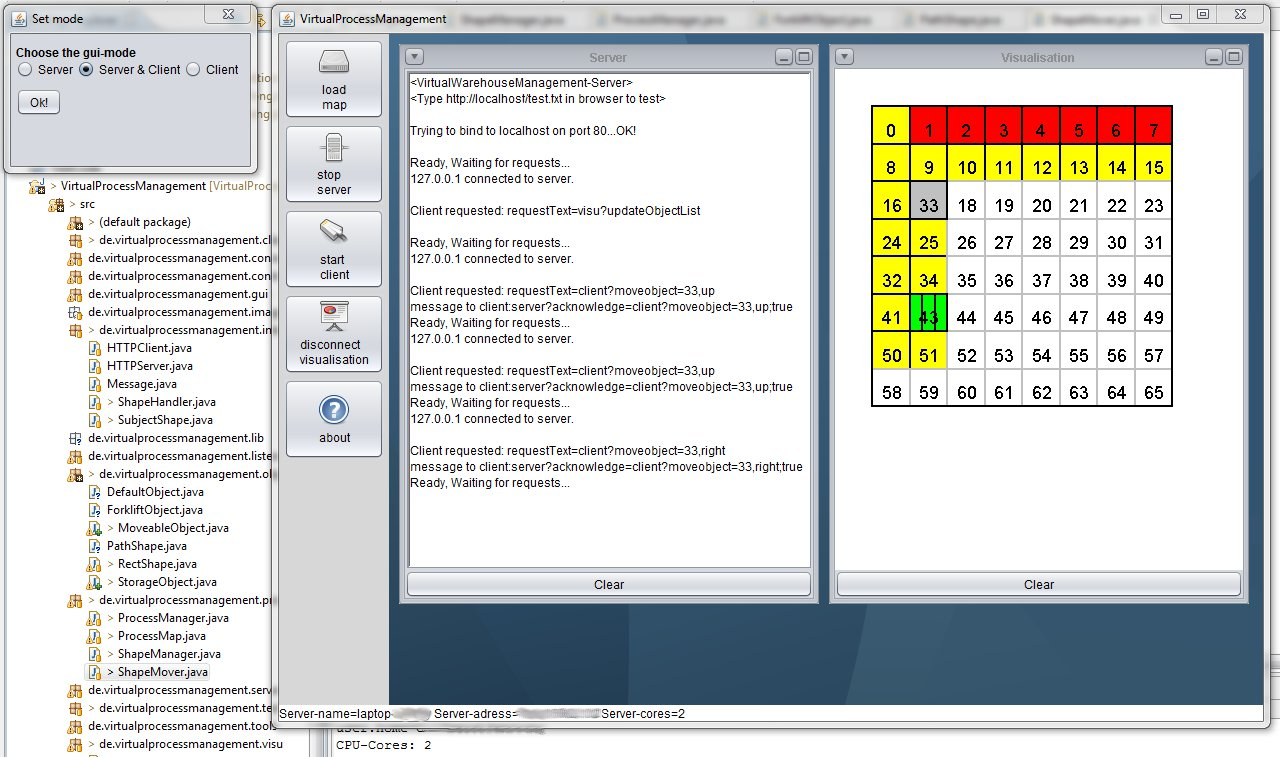
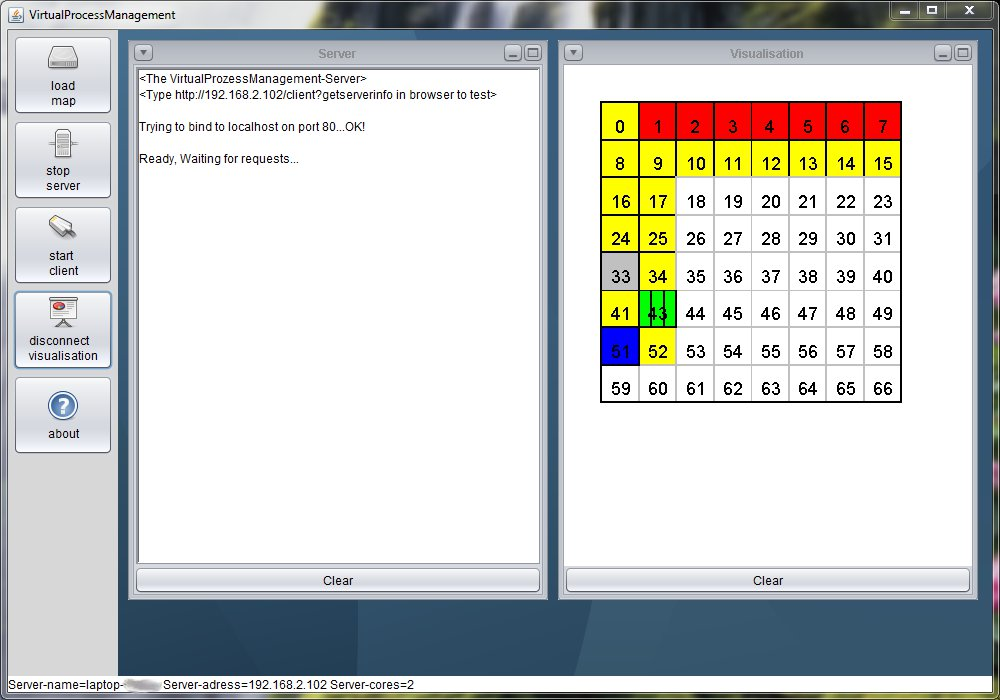
- started to make visu independent

diff --git a/index.html b/index.html
@@ -34,85 +34,93 @@
 </head>
 
 <body>
-  <a href="http://github.com/residuen/OpenEdu-VirtualProcessManagement"><img style="position: absolute; top: 0; right: 0; border: 0;" src="http://s3.amazonaws.com/github/ribbons/forkme_right_darkblue_121621.png" alt="Fork me on GitHub" /></a>
+  <a href="http://github.com/residuen/VirtualProcessManagement"><img style="position: absolute; top: 0; right: 0; border: 0;" src="http://s3.amazonaws.com/github/ribbons/forkme_right_darkblue_121621.png" alt="Fork me on GitHub" /></a>
 
   <div id="container">
 
     <div class="download">
-      <a href="http://github.com/residuen/OpenEdu-VirtualProcessManagement/zipball/master">
+      <a href="http://github.com/residuen/VirtualProcessManagement/zipball/master">
         <img border="0" width="90" src="http://github.com/images/modules/download/zip.png"></a>
-      <a href="http://github.com/residuen/OpenEdu-VirtualProcessManagement/tarball/master">
+      <a href="http://github.com/residuen/VirtualProcessManagement/tarball/master">
         <img border="0" width="90" src="http://github.com/images/modules/download/tar.png"></a>
     </div>
 
-    <h1><a href="http://github.com/residuen/OpenEdu-VirtualProcessManagement">OpenEdu-VirtualProcessManagement</a>
-      <span class="small"><i>(version v 0.5 beta)</i><br />
+    <h1><a href="http://github.com/residuen/VirtualProcessManagement">OpenEdu-VirtualProcessManagement</a>
+      <span class="small"><i>(version v 0.1 beta)</i>
       by <a href="http://github.com/residuen">residuen</a></span></h1>
+	
+   <p>
+    	<br/>
+    	<h2>Das Programm</h2>
+		OpenEdu-VirtualProcessManagement ist ein OpenSource-Tool, welches die Simulation einer automatisierten Anlage ermoeglicht.
+		Dies kann z.B. ein Lager- oder ein Warenhaus mit Wareneingang und Ausgang sein, oder aber auch eine Fertigungsstraße mit Robotern.
+		<br/>
+		Derzeit besteht die Moeglichkeit, Hallen mittels eine CSV-Datei zu generieren, welche Wege fuer Maschinen und Menschen, Stapler,
+		einfache Fahrzeuge, Ladung bzw. Ware und Lagerflaechen beinhalten.
+		<br/>
+ 
+   	 	<h2>Der HTTP-Server</h2>
+    	Eine einfache HTTP-Anfrage an den Server veranlasst z.B. Bewegungen oder Lade-Entladevorgänge:<br/>
+		<i>http://192.168.1.2/client?chargeobjectbyid=43,51,left</i>  z.B. veranlasst den Stapler mit der ID <b>43</b>
+		Objekt <b>51</b> aufzuladen.<br/>
+		Der in Java geschriebene Server laeuft entweder auf dem lokalen Rechner, oder man startet den Server auf einem Server-PC
+		auf den dann verschiedene Clients Zugriff haben.
+		<br/>
+ 
+   	 	<h2>Intention</h2>
+		Ziel ist das Planen und Entwickeln von simulierten Steuerungs- bzw. Warenmanagementanlagen. Aufgaben koennen sowohl selbststaendig,
+		als auch in Teams in kooperativen Projektaufgaben durchgefuehrt werden.<br/>
+		Ein wesentlicher Vorteil bei der Implementierung per HTTP-Server ist, das die Loesung von Aufgaben <b>Programmiersprachenunabhaengig</b> ist.
+		Auch die Anbindung einer Datenbank für eine Lagerverwaltung ist als Aufgabe moeglich, sowie die Eigenentwicklung einer textbasierten
+		oder auch grafischen Benutzeroberflaeche fuer Steuerungs- und/oder Lagerlogistikaufgaben.
+	</p>
 
-    <div class="description">
-      <!-- Solving and painting simple mathematical equations -->
-    </div>
+	<h2>Gallerie</h2>
+	<p>
+	<a href="http://it-host.de/images/vpm/gui.jpg" target="_blank"><img src="http://it-host.de/images/vpm/gui_thumb.jpg" border="0" /></a>
+	<br/>
+	</p>
+	
+	<h2>Filmsequenz</h2>
+	<p>
+	<a href="http://it-host.de/muviz/movie.webm" target="_blank">Filmsequenz, WebM-Kodiert.</a>
+	<br/>
+	</p>
 
-    <p>
-     <!--
-     With this tool it will be able to write down simple equations like x^2 +2*x -2 or for example 1+sin(x)/x and so on. The solver builds the results between a given range and a given step-size. A double-array will be returned.<br />
-This Java-program uses the JavaScripting-Engine to connect the JScript-Method <i>solve()</i> to solve the results of the functions. JFreeChart ist the Java-API to plot the xy-charts.</br>
-An interface, to be able implement an own solver, will be implemented soon. So VirtualProcessManagement will be a nice application to use in the IT-education.
-	-->
-</p>
-
-<h2>Gallery</h2>
-<p>
-<!--
-<a href="http://it-host.de/images/jfunktion/bild.jpg" target="_blank"><img src="http://it-host.de/images/jfunktion/bild_thumb.jpg" border="0" /></a>
-<br/>
--->
-</p>
-
-<h2>Download</h2>
-<p>Get an executeable jar (last update 11.06.2011): <a href="http://it-host.de/jar/VirtualProcessManagement.jar"><b>VirtualProcessManagement.jar</b></a><br />
-<i>(Tested with Skolelinux 5.0.6, Ubuntu-Linux 10.04 & Windows 7)</i>
-</p>
-
-<h2>title</h2>
-<p>
-bla bli blub<br />
-</p>
-
-<h2>an other title</h2>
-<p>
-bla bli blub v2.0
-
-<h2>Dependencies</h2>
-<p>
-Java Runtime - get it from <a href="http://www.java.com/de/download/" target="_blank"><b>Java&trade;</b></a><br />
-JFreeChart - it's also implemented as jar (very good and fast charting API for Java)
-</p>
-
-<h2>License</h2>
-<p>GPL 3.0</p>
-<h2>Authors</h2>
-<p>residuen (k.bettray@uni-duisburg.de)
-<br/>
-<br/>      </p>
-<h2>Contact</h2>
-<p>residuen (k.bettray@uni-duisburg.de)
-<br/>      </p>
+	<h2>Download</h2>
+	<p>Eine ausfuehrbare Version liegt in der folgenden ZIP-Datei bereit (letztes Update 31.08.2011): <a href="http://it-host.de/jar/VirtualProcessManagement.zip"><b>VirtualProcessManagement.zip</b></a><br />
+	<i>(Getested mit Windows XP und Windows 7)</i>
+	</p>
+	
+	<h2>Abhaengigkeiten</h2>
+	<p>
+	Java Runtime - Erhaeltlich unter <a href="http://www.java.com/de/download/" target="_blank"><b>Java&trade;</b></a><br />
+	</p>
+	
+	<h2>Lizenz</h2>
+	<p>GPL 3.0, mehr dazu unter <a href="http://www.gnu.de/documents/gpl.de.html" target="_blank">http://www.gnu.de/documents/gpl.de.html</a></p>
+	<h2>Author</h2>
+	<p>residuen (k.bettray@uni-duisburg.de)
+	<br/>
+	<br/>      </p>
+	<h2>Kontakt</h2>
+	<p>residuen (k.bettray@uni-duisburg.de)
+	<br/>      </p>
 
 
     <h2>Download</h2>
     <p>
       You can download this project in either
-      <a href="http://github.com/residuen/OpenEdu-VirtualProcessManagement/zipball/master">zip</a> or
-      <a href="http://github.com/residuen/OpenEdu-VirtualProcessManagement/tarball/master">tar</a> formats.
+      <a href="http://github.com/residuen/VirtualProcessManagement/zipball/master">zip</a> or
+      <a href="http://github.com/residuen/VirtualProcessManagement/tarball/master">tar</a> formats.
     </p>
     <p>You can also clone the project with <a href="http://git-scm.com">Git</a>
       by running:
-      <pre>$ git clone git://github.com/residuen/OpenEdu-VirtualProcessManagement</pre>
+      <pre>$ git clone git://github.com/residuen/VirtualProcessManagement</pre>
     </p>
 
     <div class="footer">
-      get the source code on GitHub : <a href="http://github.com/residuen/OpenEdu-VirtualProcessManagement">residuen/OpenEdu-VirtualProcessManagement</a>
+      get the source code on GitHub : <a href="http://github.com/residuen/VirtualProcessManagement">residuen/VirtualProcessManagement</a>
     </div>
 
   </div>

diff --git a/src/de/virtualprocessmanagement/visu/VisualisationGui.java b/src/de/virtualprocessmanagement/visu/VisualisationGui.java
@@ -1,15 +1,10 @@
 package de.virtualprocessmanagement.visu;
 
 import java.awt.BorderLayout;
-import java.awt.Component;
 import java.awt.GridLayout;
 import java.awt.event.ActionEvent;
 import java.awt.event.ActionListener;
-import java.awt.event.WindowEvent;
-import java.awt.event.WindowListener;
-import java.io.IOException;
-import java.util.ArrayList;
-import java.util.HashMap;
+import java.util.Scanner;
 
 import javax.swing.BorderFactory;
 import javax.swing.JButton;
@@ -21,20 +16,10 @@ import javax.swing.JTextArea;
 import javax.swing.event.InternalFrameEvent;
 import javax.swing.event.InternalFrameListener;
 
-import de.virtualprocessmanagement.connection.ServerClientConnectionLayer;
-import de.virtualprocessmanagement.interfaces.HTTPServer;
 import de.virtualprocessmanagement.interfaces.Message;
-import de.virtualprocessmanagement.objects.RectShape;
 import de.virtualprocessmanagement.processing.ProcessMap;
-import de.virtualprocessmanagement.server.Server;
-import de.virtualprocessmanagement.test.TestSubjects;
 
 /**
- * The Server ist based on the Webserver coded by "Jon Berg"
- * You find ist at http://fragments.turtlemeat.com/javawebserver.php
- * I added some interfaces and extensions
- * Thanks to Jon for the basic-works
- * 
  * Copyright: 2011
  * @author: Karsten Bettray
  * @version 0.1
@@ -53,6 +38,7 @@ public class VisualisationGui extends JInternalFrame implements Message, ActionL
 //	private ServerClientConnectionLayer serverClientConnector = null;
 
 	   //declare some panel, scrollpanel, textarea for gui
+	private JPanel contentPanel = new JPanel(new BorderLayout());
 	private JPanel jPanel1 = new JPanel();
 	private JScrollPane jScrollPane1 = new JScrollPane();
 	private JTextArea jTextArea2 = new JTextArea();
@@ -104,8 +90,6 @@ public class VisualisationGui extends JInternalFrame implements Message, ActionL
 		
 		JButton button = new JButton("Clear");
 		button.addActionListener(this);
-		//oh the pretty colors
-//		setUndecorated(true);
 	  
 		visuPanel.setProcessMap(processMap);
 		
@@ -125,8 +109,10 @@ public class VisualisationGui extends JInternalFrame implements Message, ActionL
 		
 //		centerPanel.add(jPanel1);
 		centerPanel.add(visuPanel);
-		this.getContentPane().add(centerPanel, BorderLayout.CENTER);
-		this.getContentPane().add(button, BorderLayout.SOUTH);
+		contentPanel.add(centerPanel, BorderLayout.CENTER);
+		contentPanel.add(button, BorderLayout.SOUTH);
+		
+		this.getContentPane().add(contentPanel);
 		
 		//tweak the apearance
 		this.setSize(420, 560);
@@ -138,6 +124,8 @@ public class VisualisationGui extends JInternalFrame implements Message, ActionL
 		
 		//make sure it is drawn
 		this.validate();
+		
+		System.out.println("Gerendert?");
 	}
 
 	//this is a method to get messages from the actual
@@ -184,4 +172,37 @@ public class VisualisationGui extends JInternalFrame implements Message, ActionL
 
 	@Override
 	public void internalFrameOpened(InternalFrameEvent e) { }
+	
+	
+	public static void main(String[] arg0)
+	{
+		Scanner input = new Scanner(System.in);
+		String hostAdress, map;
+		VisualisationGui myVisu;
+		JFrame frame = new JFrame();
+		
+		System.out.println("Geben Sie die Adresse des Host-Servers ein:");
+		
+		hostAdress = input.nextLine();
+		
+		if(hostAdress == null || hostAdress.length() == 0)
+			hostAdress = "localhost";
+
+		System.out.println("Geben Sie Pfad und Name der Map-Datei ein:");
+		
+		map = input.nextLine();
+		
+		if(map == null || map.length() == 0)
+			map = "map.csv";
+
+		myVisu = new VisualisationGui(new ProcessMap(map, 25, 25), hostAdress);
+		
+		frame.getContentPane().add(myVisu.contentPanel);
+		frame.setDefaultCloseOperation(JFrame.EXIT_ON_CLOSE);
+		frame.setTitle("Visualisation");
+		frame.setSize(420, 560);
+		frame.setLocation(0, 10);
+		frame.setResizable(true);
+		frame.setVisible(true);
+	}
 }

diff --git a/src/de/virtualprocessmanagement/visu/ReadServerData.java b/src/de/virtualprocessmanagement/visu/ReadServerData.java
@@ -10,7 +10,7 @@ import de.virtualprocessmanagement.interfaces.Message;
  */
 public class ReadServerData extends Thread {
 
-	HTTPClientConnection connection = null; // new HTTPClientConnection("localhost");
+	HTTPClientConnection connection = null;
 
 	Message to_send_message_to = null;
 	
@@ -28,7 +28,7 @@ public class ReadServerData extends Thread {
 		
 		this.to_send_message_to = to_send_message_to;
 		
-		command = ""; // http://"+host+":80/visu?updateObjectList";
+		command = "";
 		
 		connection = new HTTPClientConnection(host);
 	}

diff --git a/src/de/virtualprocessmanagement/processing/ProcessMap.java b/src/de/virtualprocessmanagement/processing/ProcessMap.java
@@ -30,7 +30,6 @@ public class ProcessMap {
 	protected int fieldsX = 0, fieldsY = 0, cellWidth = 0, cellHeight = 0;
 	
 	public ProcessMap(String filename, int cellWidth, int cellHeight) {
-//	public ProcessMap(String filename) {
 		
 		this.cellWidth = cellWidth;
 		this.cellHeight = cellHeight;
